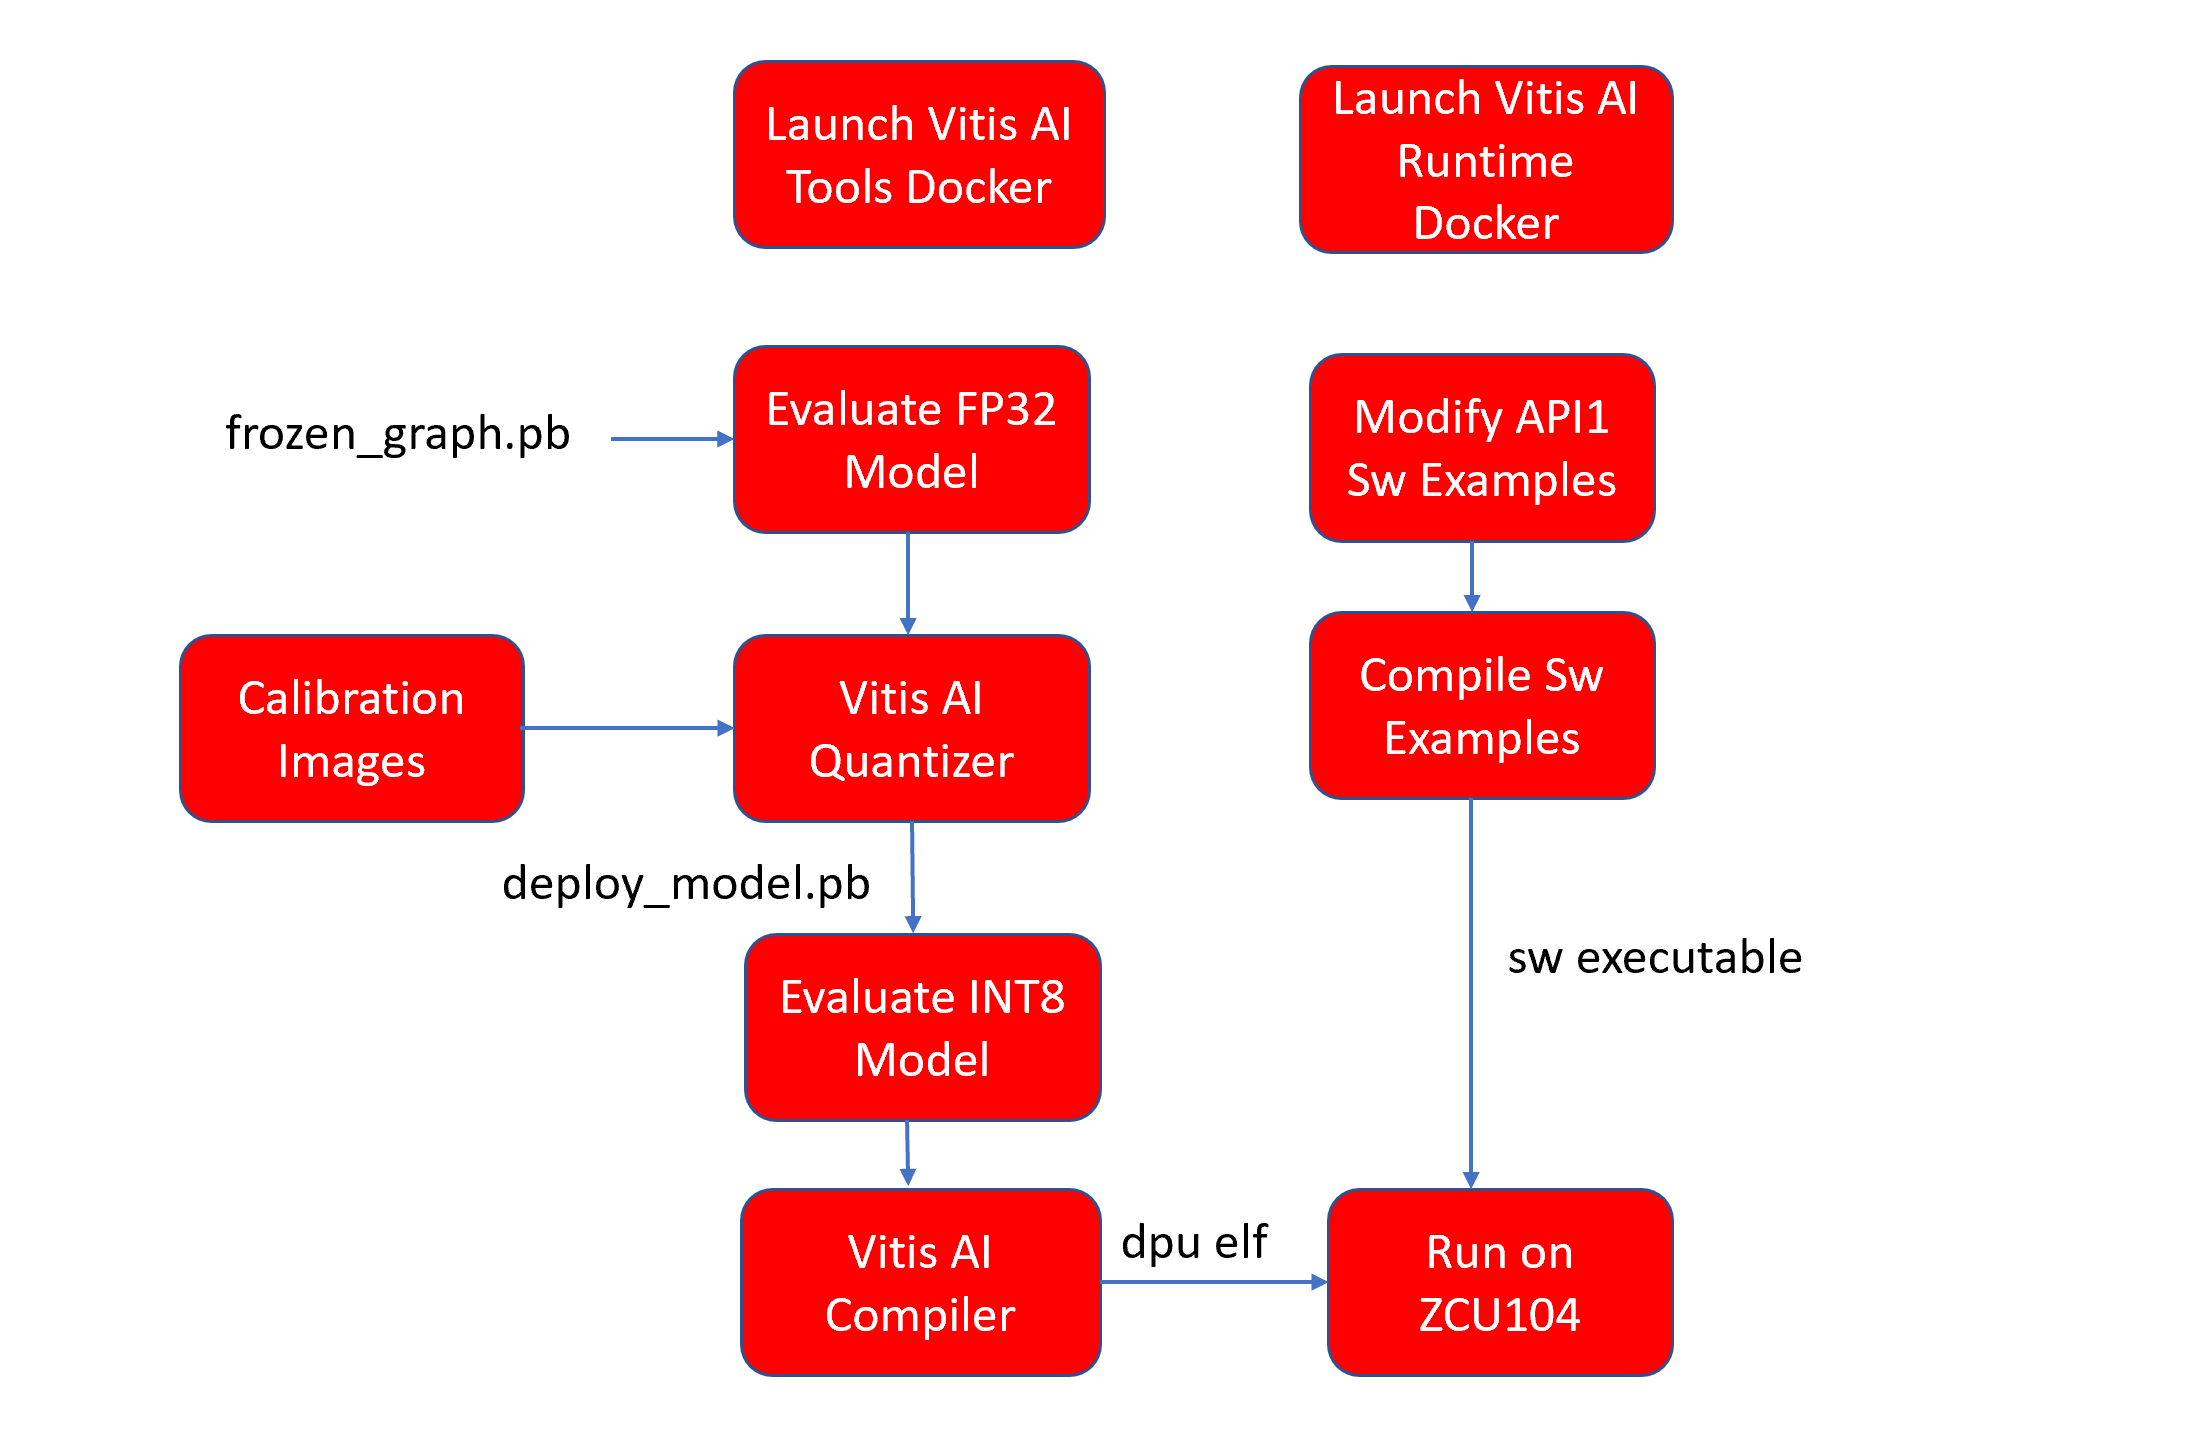
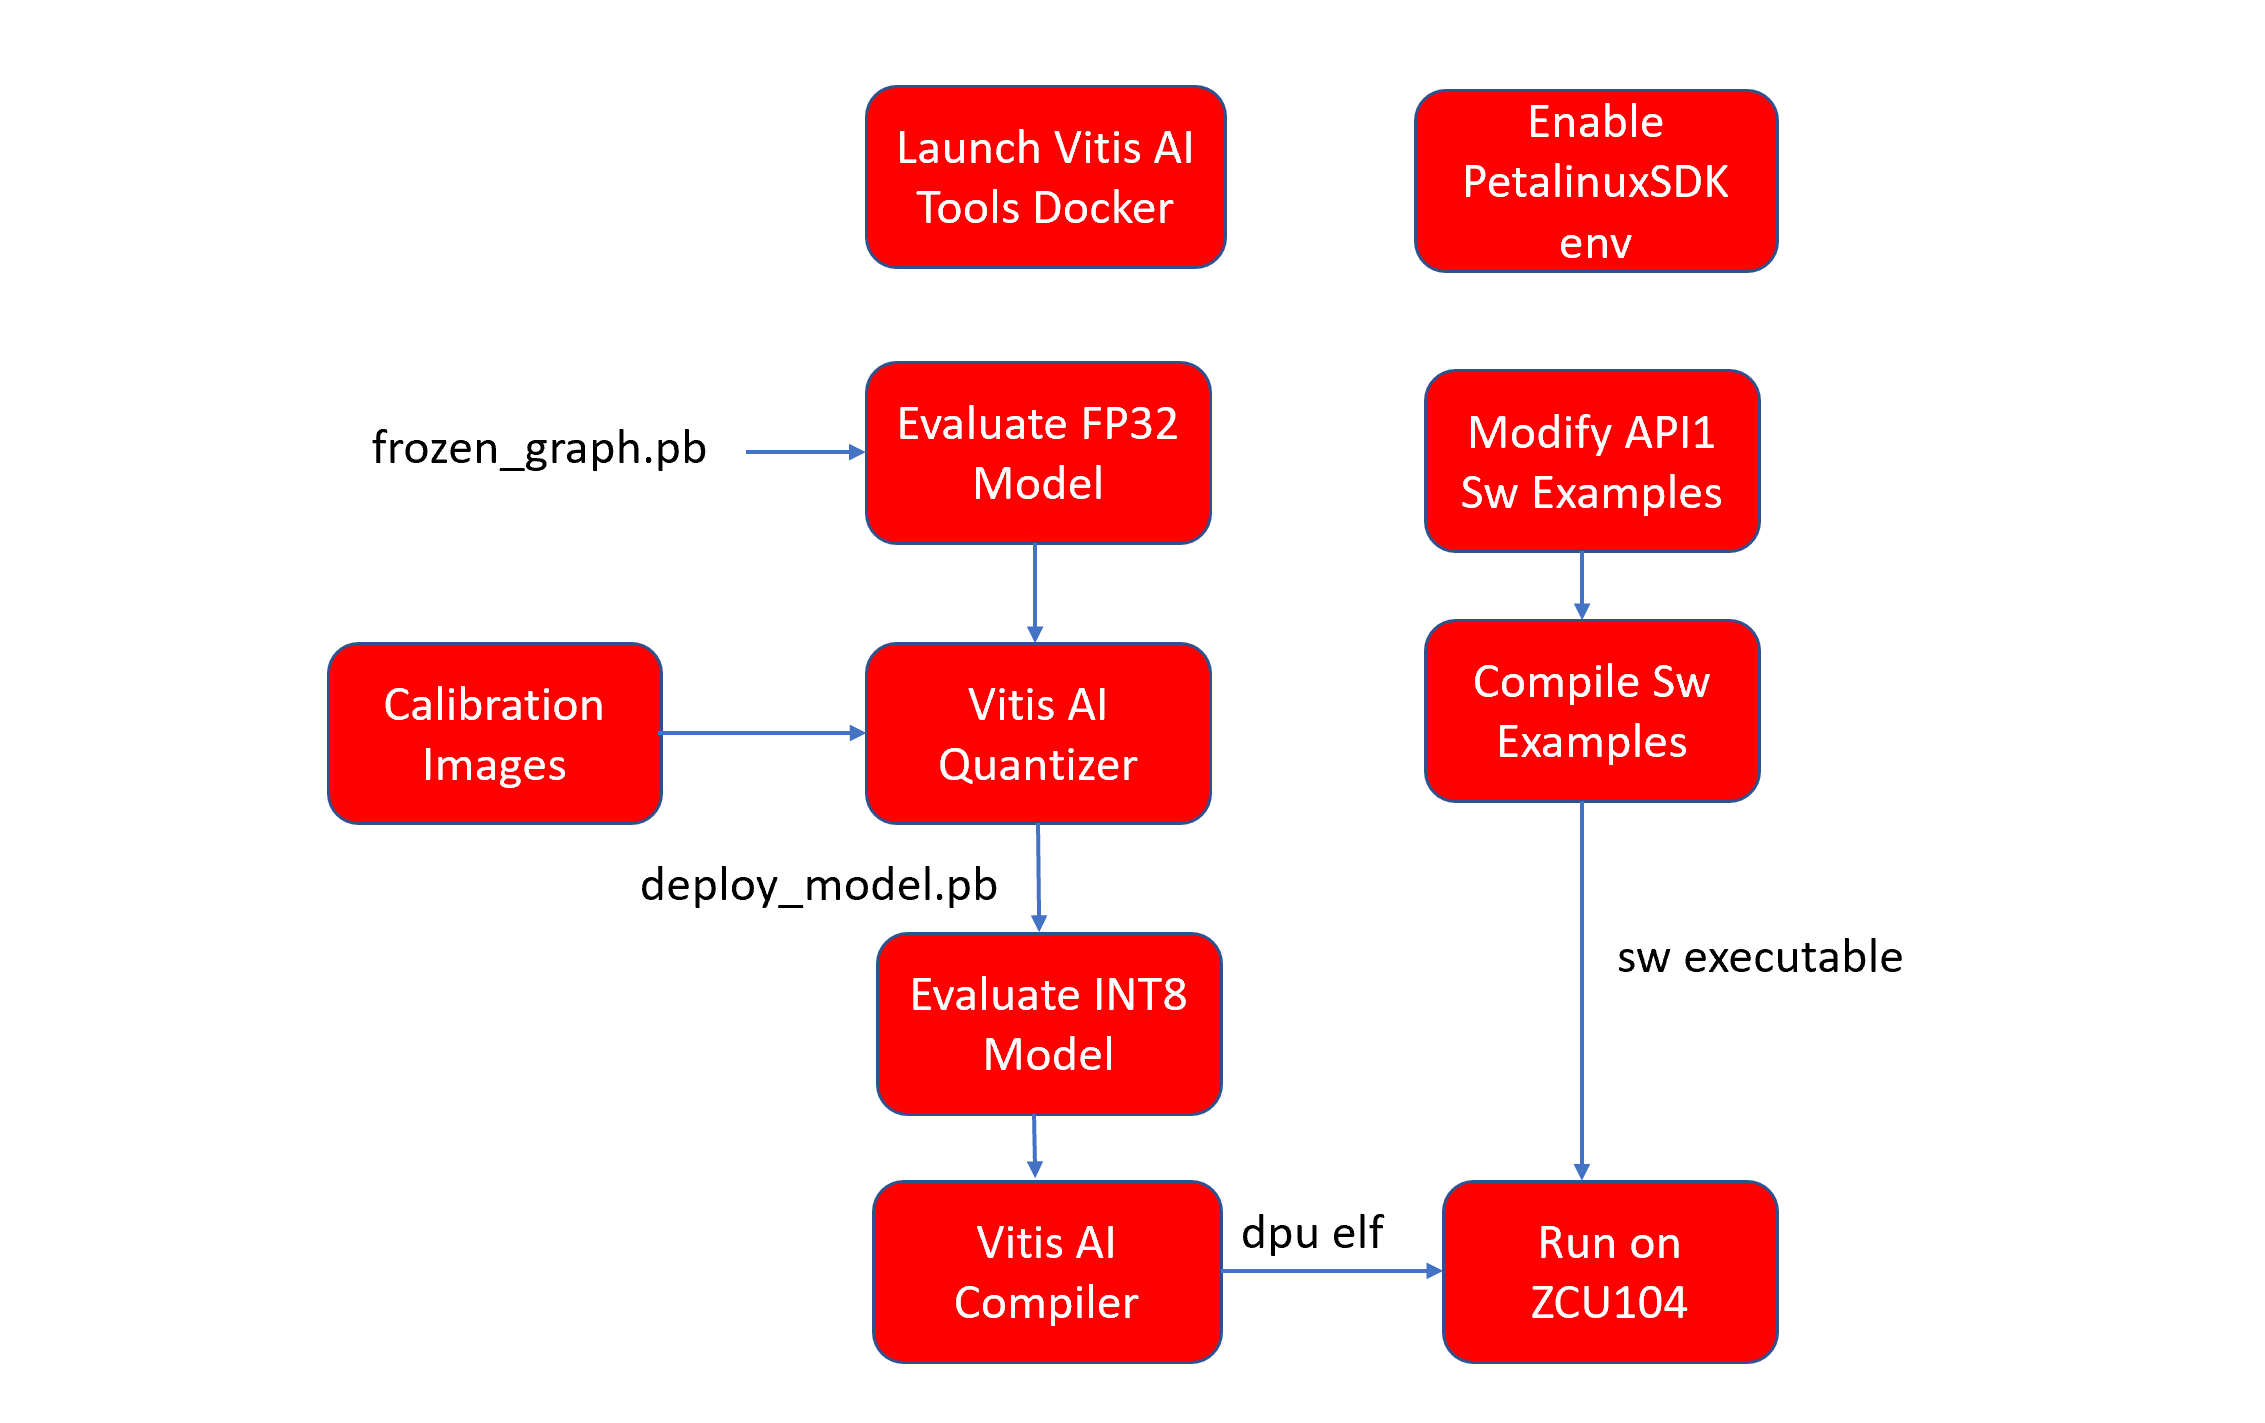
Updated for Vitis AI 1.2.

diff --git a/README.md b/README.md
@@ -1,8 +1,8 @@
 # ML at the Edge - Introduction Lab
 
 ## Introduction
- 
-In this lab, you will use the Vitis&trade; AI 1.0 tool kit to quantize and compile a Yolov3 TensorFlow model that utilizes the Xilinx® Deep Learning Processor (DPU) on the ZCU104 board. The Yolov3 model was trained on the Pascal VOC data set.
+
+In this lab, you will use the Vitis&trade; AI 1.2 tool kit to quantize and compile a Yolov3 TensorFlow model that utilizes the Xilinx® Deep Learning Processor (DPU) on the ZCU104 board. The Yolov3 model was trained on the Pascal VOC data set.
 
 You will also use the high-level Vitis AI Library APIs to build sw examples to measure DPU performance and display the video stream using a USB camera.  
 
@@ -12,10 +12,10 @@ For this lab, the tools have been pre-installed on an AWS p2.xlarge instance, an
 
 If you want to run this lab on another machine, the following is required:
 
-  + An Ubuntu host machine configured with the requirements defined in Table 1 of the <a href="https://www.xilinx.com/support/documentation/sw_manuals/vitis_ai/1_0/ug1414-vitis-ai.pdf">Vitis AI User Guide (UG1414)</a>.
+  + An Ubuntu host machine configured with the requirements defined in Table 2 of the <a href="https://www.xilinx.com/support/documentation/sw_manuals/vitis_ai/1_2/ug1414-vitis-ai.pdf">Vitis AI User Guide (UG1414)</a>.
   + The host machine should also have:
-    + The `vitis-ai-docker-runtime`, which is the runtime docker image for DPU-v2 development.
     + Either the `vitis-ai-docker-tools` GPU image or the `vitis-ai-docker-tools` CPU image.
+    + The Petalinux SD environment for the Vitis-AI-Libaries
     + A terminal emulator and/or SSH Client, such as Putty.
 
 For more details, refer to the [Vitis AI Repository](https://github.com/Xilinx/Vitis-AI).
@@ -29,7 +29,7 @@ The following figure shows the lab flow:
 
 ![](files/pictures/workflow.png)
 
-## **Connecting to your P2 instance**
+## **Connecting to your P2 instance (skip if running from local machine)**
 
 In this module, you will start an EC2 P2 instance, and connect to it using SSH or a remote desktop client. When connected, you will use the tool with all needed scripts and data sets. For this event, each registered participant will be required to start an EC2 P2 instance; therefore, participants need to have experience with:
 
@@ -37,7 +37,7 @@ In this module, you will start an EC2 P2 instance, and connect to it using SSH o
 
 - Connecting to a running instance using SSH or Windows Remote Desktop
 
-## **Logging into AWS and Start the Instance**
+## **Logging into AWS and Start the Instance (skip if running from local machine)**
 
 The AWS environment <https://aws.amazon.com> is applied for this lab. You will be assigned a specific user name and unified password to log in.
 
@@ -70,7 +70,7 @@ list of instances.
 
   ![](files/pictures/AWS4.png)
 
-## Connecting to Your instance Using SSH
+## Connecting to Your AWS instance Using SSH (skip if running from local machine)
 
 In the SSH client, such as PuTTy, use the IPv4 Public IP of your instance:
 
@@ -84,10 +84,10 @@ The first time you connect, you might for a username and password. Enter the fol
 
 ## Launching the Vitis AI Tools Docker Container
 
-In your terminal, enter:
+The following instructions assume that you placed the lab files in a directory named yolov3_voc. From within the yolov3_voc directory in your terminal, type:
 
  ```
- ~/Vitis-AI/docker_run.sh xilinx/vitis-ai:tools-1.0.0-gpu
+ bash <Path to Vitis-AI Install>/docker_run.sh xilinx/vitis-ai-gpu:latest
  ```
 
   The docker container launches.
@@ -116,8 +116,7 @@ To run the lab:
 
 1. Execute the Jupyter notebook using the following command:
 
- ```
-cd /workspace/Labs/AI/yolov3_voc
+```
 jupyter notebook
 ```
 
@@ -131,7 +130,7 @@ jupyter notebook
 
 3. In the files folder, double-click the **yolov3_voc.ipynb** file to start the lab.
 
-4. Follow the instructions in the Jupyter notebook to generate the `dpu\_yolov3\_voc.elf` file.
+4. Follow the instructions in the Jupyter notebook to generate the `dpu_yolov3_voc.elf` file.
 
  ![](files/pictures/jupyter3.png)
 
@@ -149,41 +148,40 @@ Three API Levels are provided. In this lab, you will use the API-1 flow.
 
  ![](files/pictures/api.png)
 
-For more details about using the Vitis AI-Library and various APIs, refer to the *Vitis AI Library User Guide* ([UG1354](https:https://www.xilinx.com/support/documentation/user_guides/ug1354-xilinx-ai-sdk.pdf)).
+For more details about using the Vitis AI-Library and various APIs, refer to the *Vitis AI Library User Guide* ([UG1354](https://www.xilinx.com/support/documentation/sw_manuals/vitis_ai/1_2/ug1354-xilinx-ai-sdk.pdf)).
 
 You should now be out of the Vitis AI Tool docker container. If you have not done so, press **Ctrl + C** to close your Jupyter Notebook. Then, press **Ctrl + D** to close the docker container.
 
-## Launching the Vitis Runtime Tools Docker Container
+## Enabling the PetaLinux SDK Environment
 
-To launch the Vitis Runtime tools docker container, use the following command:
-```
-~/Vitis-AI/docker_run.sh xilinx/vitis-ai:runtime-1.0.0-cpu
-```
-The docker container launches.
+This assumes that you have setup your host environment for the Vitis-AI-Libaries
+For more info see:  https://github.com/Xilinx/Vitis-AI/tree/master/Vitis-AI-Library
 
-![](files/pictures/run_time.png)
+```
+source <Path to PetaLinux SDK>/environment-setup-aarch64-xilinx-linux
+```
 
 Change to the following directory:
 
 ```
-cd /workspace/Labs/AI/yolov3_voc/sw
+cd yolov3_voc/sw
 ```
 
 ## Building Software Examples
 
-Notice that four files have been copied from the Vitis AI_Libraries from`/workspace/Vitis-AI/Vitis-AI-Library/samples/yolov3` to the following local directory:
+Notice that four files have been copied from the Vitis AI_Libraries from`<Vitis-AI Install Path>/Vitis-AI-Library/overview/samples/yolov3` to the following local directory:
 
 ![](files/pictures/sw_dir.png)
 
-* The `test\_performance\_yolov3.cpp` file measures dpu performance:
+* The `test_performance_yolov3.cpp` file measures dpu performance:
 
  ![](files/pictures/test_perf.png)
 
-* The `test\_video\_yolov3.cpp` file displays the object detection in real-time using openCV for video acquisition.
+* The `test_video_yolov3.cpp` file displays the object detection in real-time using openCV for video acquisition.
 
  ![](files/pictures/test_video.png)
 
-* The `process\_result.hpp` is used by `test\_video\_yolo application` to process the detection results from the DPU. It has been modified to display the label class names on the detection boxes.
+* The `process_result.hpp` is used by `test_video_yolo application` to process the detection results from the DPU. It has been modified to display the label class names on the detection boxes.
 
  ![](files/pictures/process.png)
 
@@ -199,61 +197,82 @@ The following two application binaries now display in the directory.
 
 ## Understanding Board Files
 
-You are now ready to copy your application executables and the `dpu.elf` file to the ZCU104 board. Before you start, you must first understand how the files are referenced on the target.
+You are now ready to copy your application executables and the `dpu.elf` file to the ZCU104 board. Before you start, lets understand how the model post-processing is configured on the target board using a prototxt file.
 
-A json file is used on the target board to reference the `dpu.elf` file, and a prototext file.
-These files are also located in the `dir /workspace/zcu104/yolov3_voc/`, if you would like to examine them.
-
-The json file contents are as follows. It points to the `dpu.elf` file, indicates the dpu kernel name, and points to the prototext file.
-
-![](files/pictures/json.png)
-
-The prototext file is shown in the following figure. It configures the model post-processing with model parameters, such as the number of classes, the anchor points (biases), and the detection threshold.
+The prototxt file `yolov3/zcu104/yolov3_voc.prototxt` is shown in the following figure. It configures the model post-processing with model parameters, such as the number of classes, the anchor points (biases), and the detection threshold.
 
 ![](files/pictures/proto.png)
 
-For convenience, the two files have already been copied to the ZCU104 board in the following location: `~/Lab/yolov3_voc`
 
 ## Setting Up the Board
 
 For this lab, you will use the Xilinx ZCU104 board as the hardware platform. A 16 GB SD card, which holds the boot image and necessary demo files, is provided as the boot device. A 1080p DP monitor is required as the display. An Ethernet cable is needed to download the ELF file from home.
 
-The Vitis AI Prebuilt Linux Image and the Vitis AI Libraries have already been installed. If you are running this lab on your own board, follow the Target Install instructions in the *Vitis AI Library User Guide* ([UG1354](https:https://www.xilinx.com/support/documentation/user_guides/ug1354-xilinx-ai-sdk.pdf)) to install on the ZCU104 board.
+The Vitis AI Prebuilt Linux Image and the Vitis AI Libraries have already been installed. If you are running this lab on your ZCU104 own board, follow the Target Install instructions for the Vitis-AI-Libraries: https://github.com/Xilinx/Vitis-AI/tree/master/Vitis-AI-Library.
 
 ![](files/pictures/ZCU104.png)
 
 The SD card already is in the slot, and if the board is correctly powered on, you will see the desktop display on the monitor after booting. The board IP address is set to **192.168.0.104**; and the password is **root**.
 
+Note: if you are running this lab on your own, you can set the IP address of the ZCU104 using the `ifconfig` command:
+```
+ifconfig eth0 192.168.0.104
+```
+You will also need to set a static IP addess on your host machine, for example 192.168.0.105
+
 ## Copying Files
 
-After booting the board, use the `scp` command to copy the .elf file from AWS to your computer or use the **File Zila** to finish the file transfer. In this lab, only the File Zila flow is introduced as an example.
+After booting the board, use the `scp` command to copy the .elf file from AWS to your computer or use a program  such as  **File Zila** to finish the file transfer. In this lab, only the File Zila flow is introduced as an example.
 
 To complete the transfer, two steps are required:
 1. Copy the `dpu.elf` and sw excutable files from AWS to the local laptop.
 2. Copy these files from the local laptop to the ZCU104 board.
 
-When you open File Zila, the repository on the left is the local drive. You must log into either AWS or the ZCU104 board with the following information.
+When you open File Zila, the repository on the left is the local drive. You must log into  AWS with the following information.
 
-* Host IP: **<your IPv4 Public IP\> / 192.168.0.104**
+* Host IP: **<your IPv4 Public IP\> / 192.168.0.105**
 * User: **ubuntu (Please refer to the tag) / root**
 * Password: **xlnx_XDF (Please refer to the tag) / root**
 * Port: **22 / 22**
 
-**From AWS Copy:**
+**From AWS Copy (or Host Machine):**
 
- - `~Labs/AI/yolov3_voc/sw/test_video_yolov3`
+ - `yolov3_voc/sw/test_video_yolov3`
 
- - `~/Labs/AI/yolov3_voc/sw/test_performance_yolov3`
+ - `yolov3_voc/sw/test_performance_yolov3`
 
- - `~/Labs/AI/yolov3_voc/vai_c_output/dpu_yolov3_voc.elf`
+ - `yolov3_voc/vai_c_output/dpu_yolov3_voc.elf`
+
+ - `yolov3_voc/zcu104/yolov3_voc/yolov3_voc.prototxt`
+
+ - `image directory`
 
 **To ZCU104 Copy**
+You can use such as **File Zila** to copy the files from your local machine to the ZCVU104. Use the following log in information.
+* IP: **192.168.0.104**
+* User: **root**
+* Password: **root**
+* Port: **22**
 
-- `test\_video\_yolov3         to ~/LAB/`
 
-- `test\_performance\_yolov3   to ~/LAB/`
+Create the following directories on the ZCU104 Board.
 
-- `dpu\_yolov3_\voc.elf        to ~/LAB/yolov3\_voc/`
+```
+mkdir ~/Lab
+mkdir ~/Lab/yolov3_voc
+```
+
+Copy the following files
+
+- `test_video_yolov3         to ~/Lab/`
+
+- `test_performance_yolov3   to ~/Lab/`
+
+- `dpu_yolov3_voc.elf        to ~/Lab/yolov3_voc/yolov3_voc.elf` (Note the name of the elf file is changed)
+
+- `image directory           to ~/Lab`
+
+- `yolov3_voc.prototxt       to ~/Lab/yolov3_voc/`
 
 ## **Stopping the AWS Instance**
 
@@ -296,10 +315,10 @@ Try running this again with different thread numbers.
 Use the following code to run the video test with camera input using five threads:
 
 ```
-./test_video_yolov3 yolov3_voc images/image.lst -t5
+./test_video_yolov3 yolov3_voc 0 -t5
 ```
 
-If you have time, you can experiment by changing the detection threshold (conf_threashold) in the `ML/yolov3\_voc/yolov3\_voc.prototxt` file. This changes the sensitivity of the detection. Objects with a confidence level above the threshold are displayed.
+If you have time, you can experiment by changing the detection threshold (conf_threashold) in  `~Lab/yolov3_voc/yolov3_voc.prototxt` file. This changes the sensitivity of the detection. Objects with a confidence level above the threshold are displayed.
 
 ![](files/pictures/detections.png)
 
